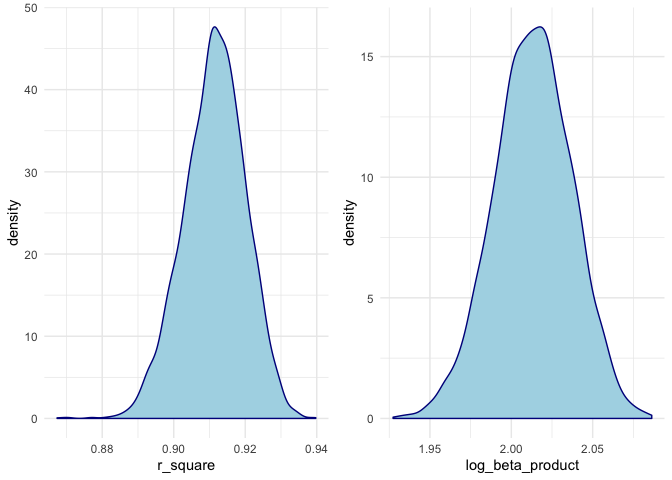
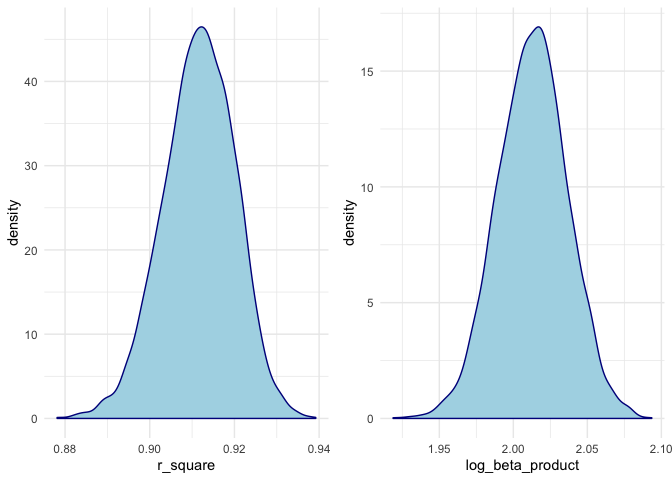
add comments on the residual plot and distribution of bootstrap parameter plot.

diff --git a/P8105_hw6_ym2771.md b/P8105_hw6_ym2771.md
@@ -9,8 +9,6 @@ Yuqi Miao
 
 ## building data driven model
 
-### Doing SLR by making plots?
-
 ### overall regression among all variables.
 
     ## 
@@ -55,9 +53,13 @@ Yuqi Miao
     ## Multiple R-squared:  0.7183, Adjusted R-squared:  0.717 
     ## F-statistic: 524.6 on 21 and 4320 DF,  p-value: < 2.2e-16
 
-Based on the overall regression, choosing the significant predictors to
-build a model, which includes
-`babysex`,`bhead`,`blength`,`delwt`,`gaweeks`,`mrace`,`smoke`.
+Firstly, I put all variables in the model, and based on the coefficient
+significance test, we choose variables with p-value of coefficient
+smaller than 0.005. Based on the overall regression, choosing the
+significant predictors to build a model, which includes
+`babysex`,`bhead`,`blength`,`delwt`,`gaweeks`,`mrace`,`smoke`. As shown
+in the summary table, the Adjusted R-squared has come up to 0.717, which
+shows relatively great performance.
 
 ### model building
 
@@ -93,8 +95,9 @@ build a model, which includes
 
 ![](P8105_hw6_ym2771_files/figure-gfm/unnamed-chunk-6-1.png)<!-- -->
 
-As shown in plot, the residual and fitted value has no clear linear
-relationship.
+As shown in plot, the residual and fitted value has no relationship,
+though the residuals shows reletively constant variance, the magnitute
+of residuals is relatively high, indicating high variance of the model.
 
 ## Comparing models
 
@@ -125,13 +128,12 @@ relationship.
 
 ### Cross validation comparision
 
-    ## Warning in if (is.na(ordered)) {: the condition has length > 1 and only the
-    ## first element will be used
-
-    ## Warning in if (ordered) "ordered": the condition has length > 1 and only
-    ## the first element will be used
-
 ![](P8105_hw6_ym2771_files/figure-gfm/unnamed-chunk-8-1.png)<!-- -->
+
+## comment
+
+Based on the the plot above, model1 shows the best performance, and
+model2 which only includes main effect, shows the worst performance.
 
 # Problem 2
 
@@ -144,11 +146,16 @@ relationship.
 
 ![](P8105_hw6_ym2771_files/figure-gfm/unnamed-chunk-10-1.png)<!-- -->
 
+### comment
+
+Based on the plot above, the distribution of these two parameters are
+nearly normal with slight left skewness and relatively heavy tails.
+
 ## counstruct CI for parameters.
 
-|       upr |       lwr | category           |
-| --------: | --------: | :----------------- |
-| 1.9648667 | 2.0586196 | log\_beta\_product |
-| 0.8934259 | 0.9273211 | rsquare            |
+|       upr |      lwr | category           |
+| --------: | -------: | :----------------- |
+| 1.9669361 | 2.058188 | log\_beta\_product |
+| 0.8943377 | 0.926984 | rsquare            |
 
 95% Confidence Interval for log\_beta\_product and r\_square
